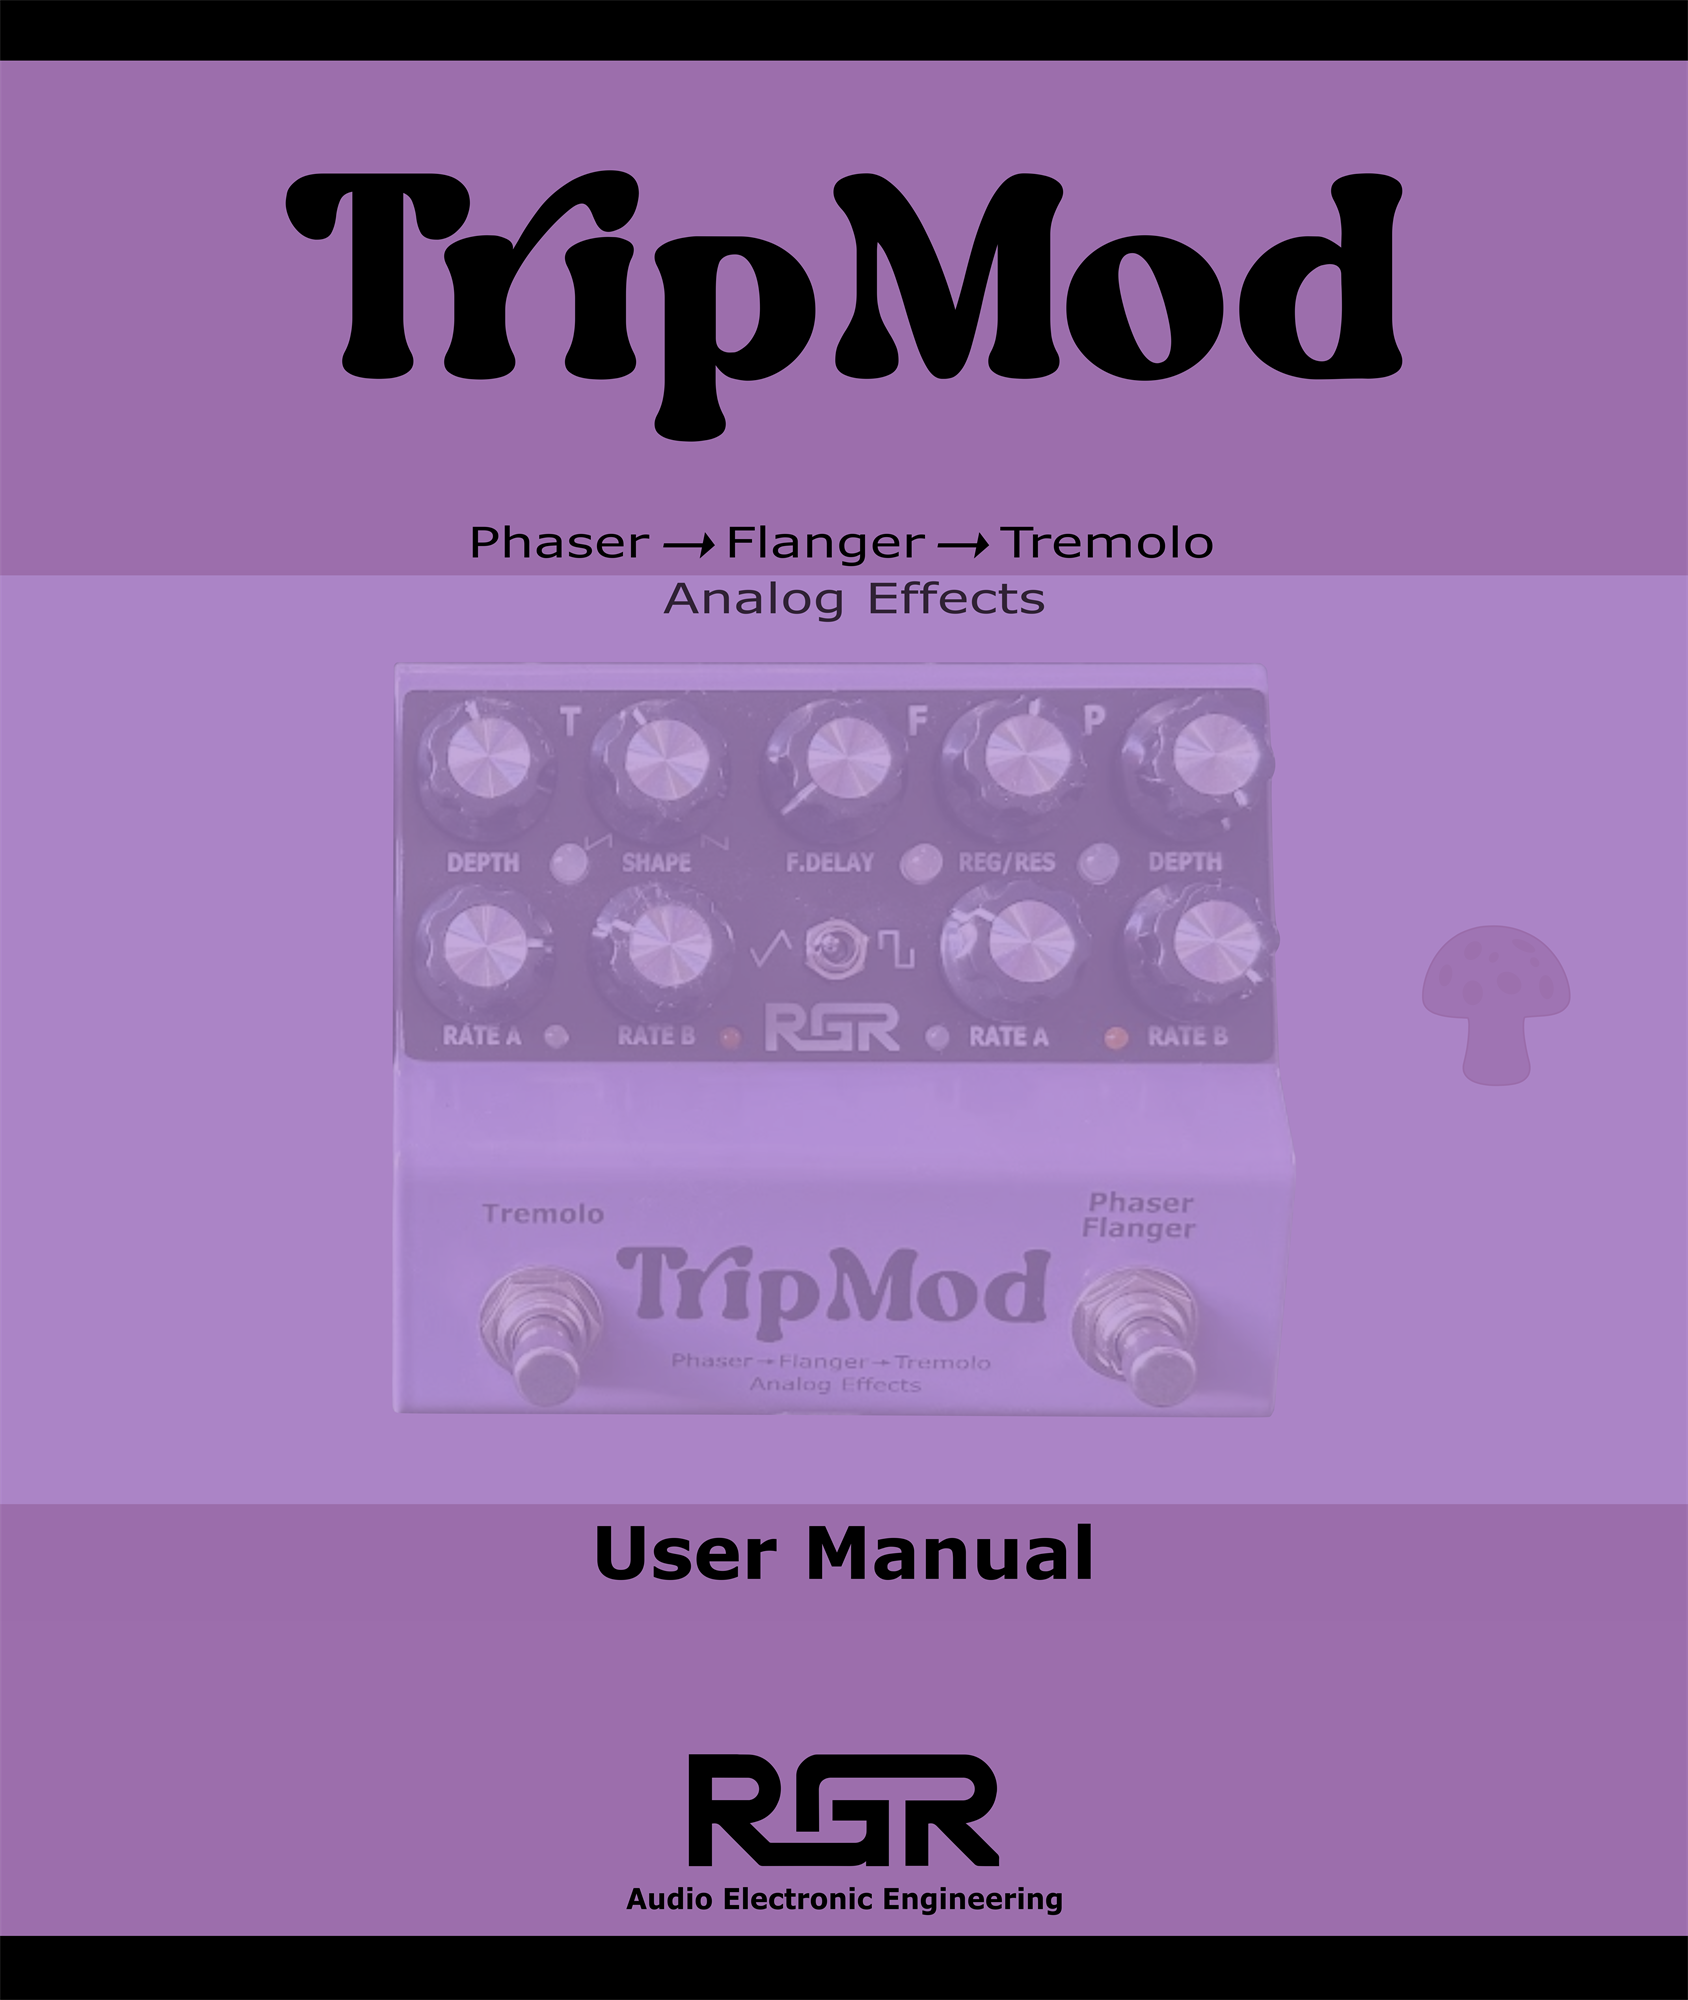
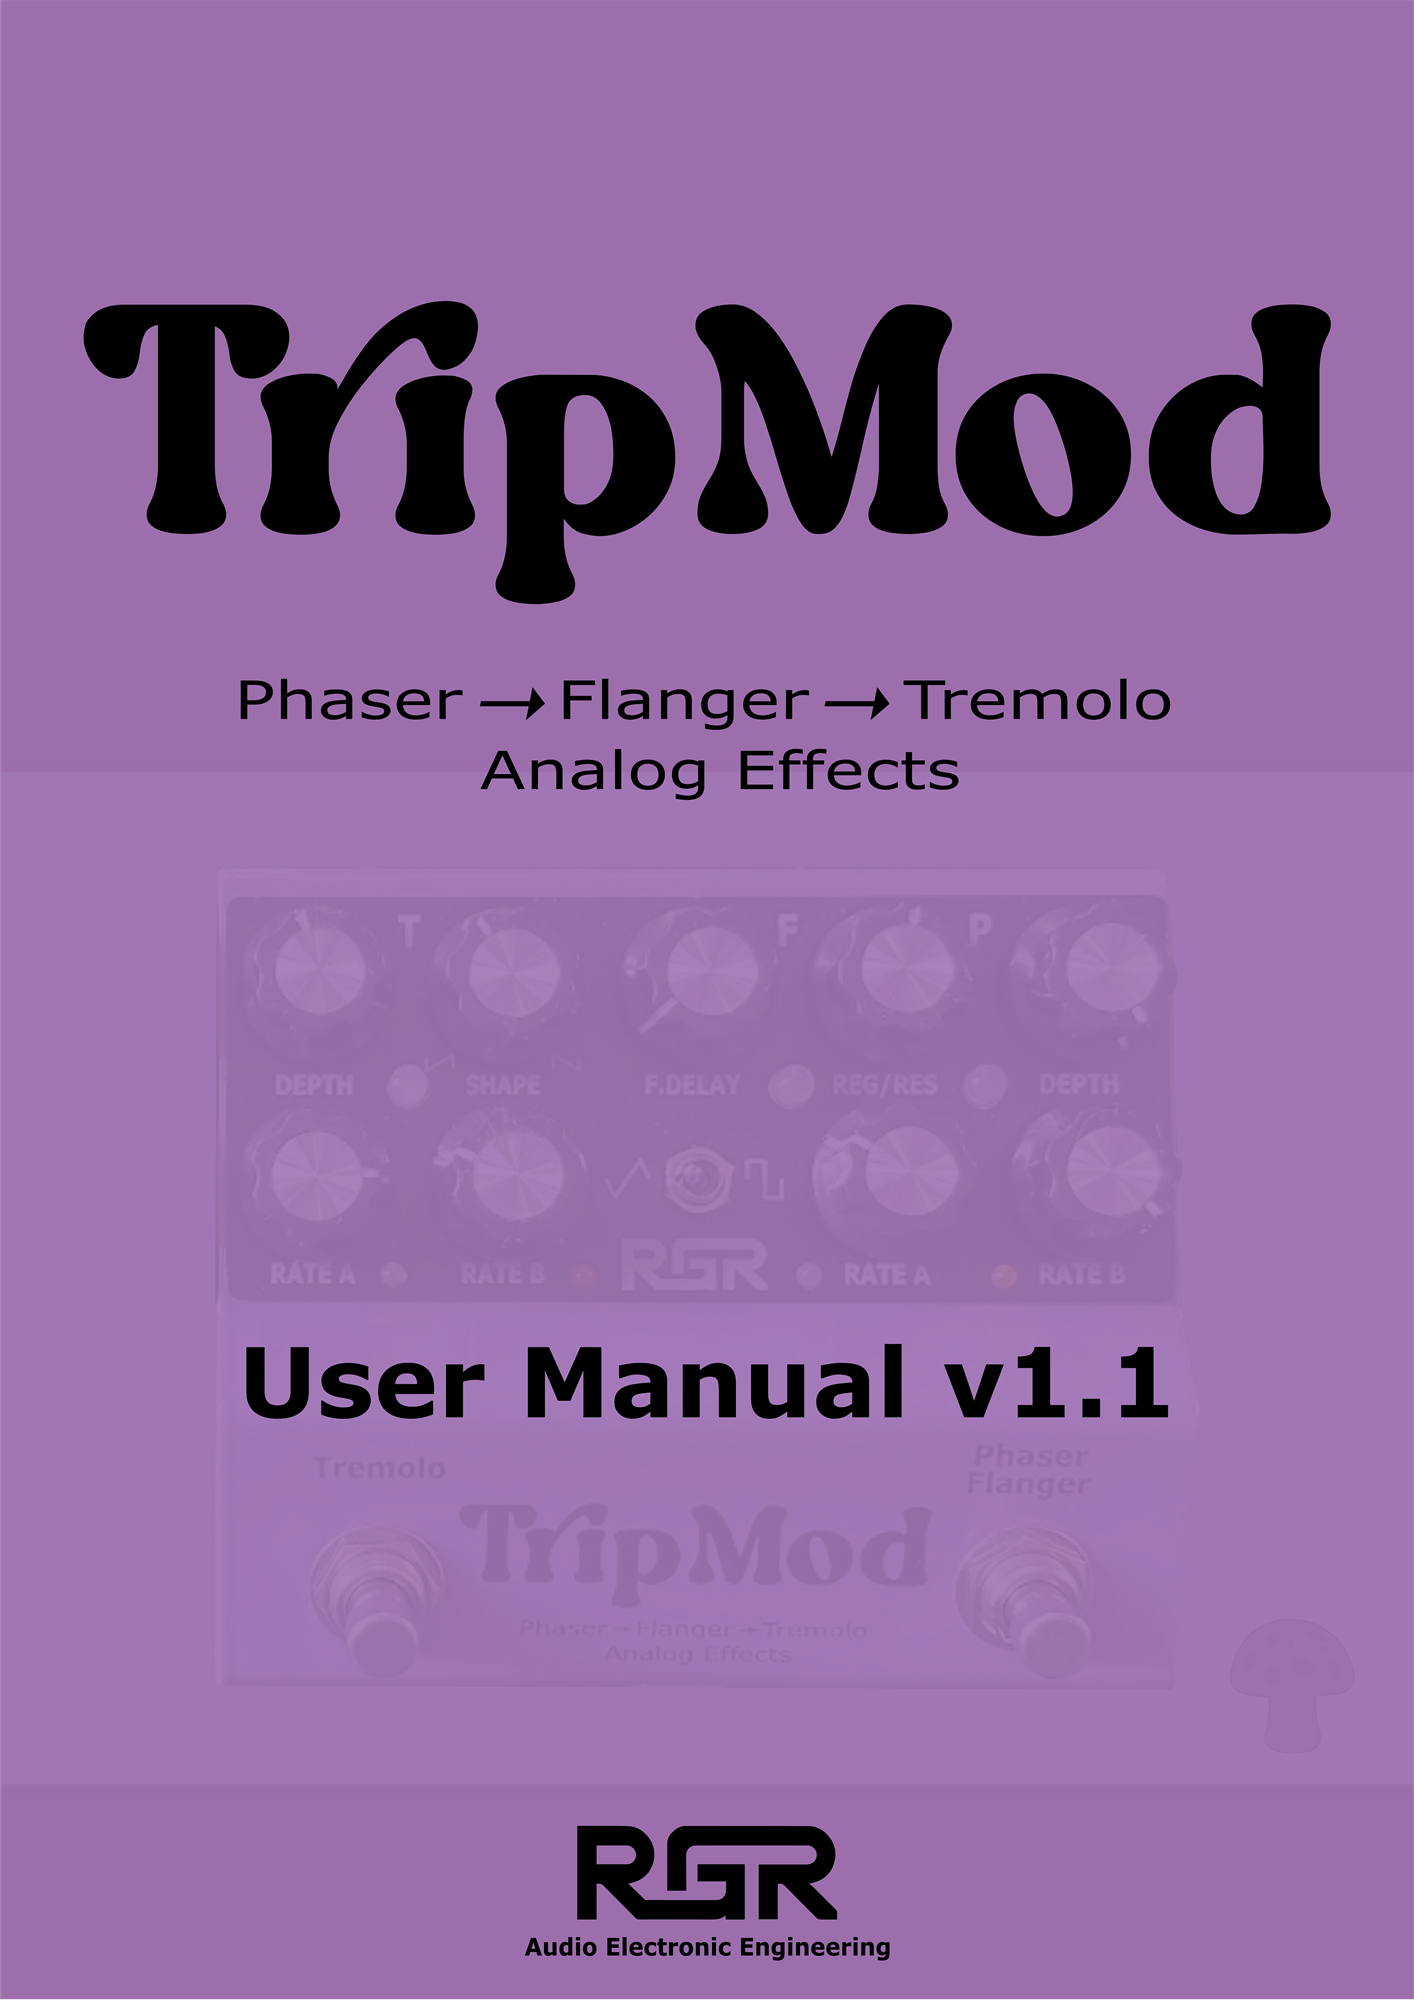
docs: update caratula A4 + fix Cuadrada Organica SVG waveform

diff --git a/index.html b/index.html
@@ -1249,14 +1249,14 @@
       <div class="wave-desc es">Oscilador analógico — picos suaves. Toggle T activo.</div>
       <div class="wave-desc en">Analog oscillator — soft peaks. Toggle T active.</div>
     </div>
-    <!-- 2. Cuadrada Orgánica — amber, curvas hacia afuera en extremos -->
+    <!-- 2. Cuadrada Orgánica — amber, S-curves dentro de límites -->
     <div class="wave-card">
       <svg viewBox="0 -6 80 52" xmlns="http://www.w3.org/2000/svg">
-        <path d="M 6,38 Q 0,44 0,32 L 0,8 Q 0,-4 6,2 L 34,2 Q 40,-4 40,8 L 40,32 Q 40,44 46,38 L 74,38 Q 80,44 80,32 L 80,8 Q 80,-4 74,2" fill="none" stroke="#ff9500" stroke-width="2.5" stroke-linecap="round" stroke-linejoin="round"/>
+        <path d="M 0,38 C 4,38 6,2 10,2 L 30,2 C 34,2 36,38 40,38 L 70,38 C 74,38 76,2 80,2" fill="none" stroke="#ff9500" stroke-width="2.5" stroke-linecap="round" stroke-linejoin="round"/>
       </svg>
       <div class="wave-name">Cuadrada Orgánica</div>
-      <div class="wave-desc es">Variante orgánica — transiciones con curva exterior. Seleccionada con Toggle T.</div>
-      <div class="wave-desc en">Organic variant — outward-curved transitions. Selected with Toggle T.</div>
+      <div class="wave-desc es">Variante orgánica — transiciones suaves entre niveles. Seleccionada con Toggle T.</div>
+      <div class="wave-desc en">Organic variant — smooth transitions between levels. Selected with Toggle T.</div>
     </div>
     <!-- 3. Rampa Ascendente — green -->
     <div class="wave-card">